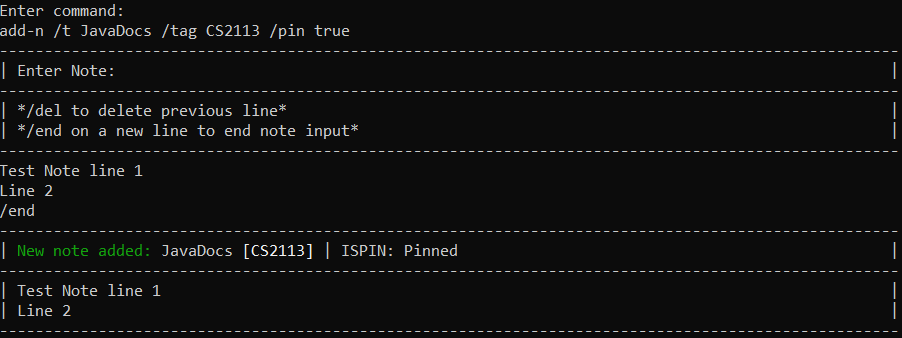
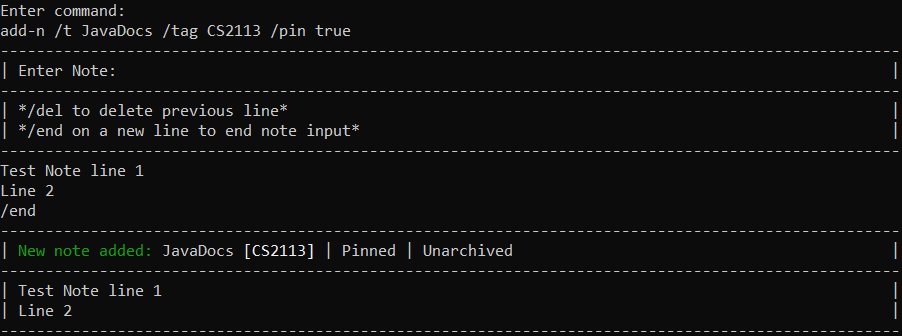
Add and edit notes will now show pinned or unpinned and archive or unarchive

diff --git a/src/main/java/seedu/notus/ui/Formatter.java b/src/main/java/seedu/notus/ui/Formatter.java
@@ -114,13 +114,8 @@ public class Formatter {
         String formattedString = "";
         String header = message.concat(note.getTitle() + " " + note.getTagsName());
 
-        if (note.getPinned()) {
-            header = header.concat("| ISPIN: " + note.getPinned() + " ");
-        }
-
-        if (note.getIsArchived()) {
-            header = header.concat("| ISARCHIVE: " + note.getIsArchived());
-        }
+        header = header.concat("| " + note.getPinnedString() + " ");
+        header = header.concat("| " + note.getIsArchivedString());
 
         formattedString = formattedString.concat(generatesHeader(header));
         for (String line : note.getContent()) {

diff --git a/src/main/java/seedu/notus/data/notebook/Note.java b/src/main/java/seedu/notus/data/notebook/Note.java
@@ -121,6 +121,10 @@ public class Note extends TaggableObject {
         return this.isArchived;
     }
 
+    public String getIsArchivedString() {
+        return (isArchived ? "Archived" : "Unarchived");
+    }
+
     public void setArchived(boolean archived) {
         isArchived = archived;
     }
